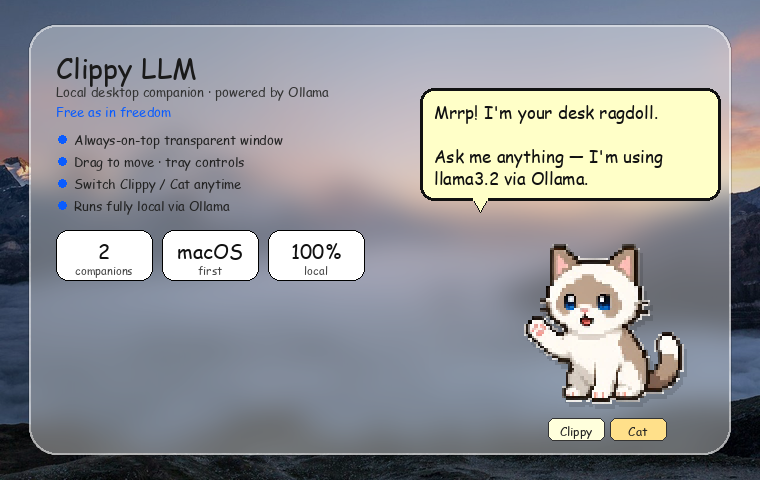
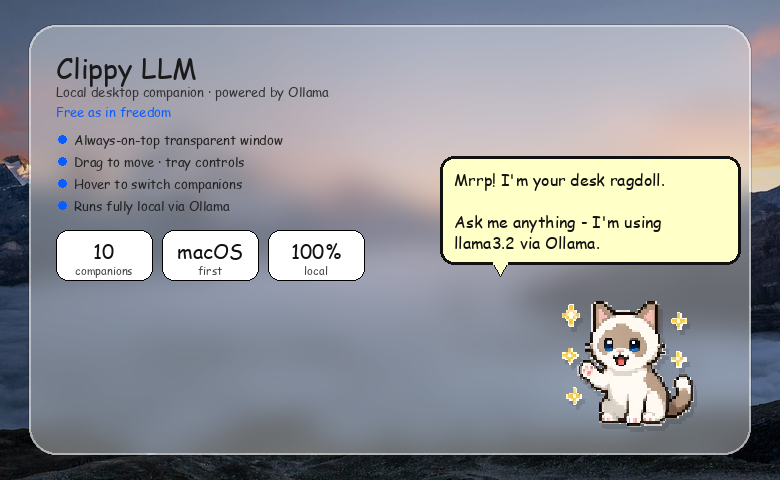
Update Readme Showcase

diff --git a/README.md b/README.md
@@ -1,13 +1,13 @@
 # Clippy LLM
 
 <p align="center">
- <img src="media/demo.gif" alt="Clippy LLM demo - switch between Clippy and Cat companions" width="640" />
+  <img src="media/demo.gif" alt="Clippy LLM demo - switch between classic Office Assistants and Cat" width="640" />
 </p>
 
 <p align="center">
- <strong>A Mac-first desktop companion</strong> that chats with a local LLM via <a href="https://ollama.com">Ollama</a>.<br/>
- Always-on-top, transparent window · drag to move · tray controls · classic Office Assistants + Cat.<br/>
- <em>Free as in freedom</em> - local models, open stack, yours to run and tweak.
+  <strong>A Mac-first desktop companion</strong> that chats with a local LLM via <a href="https://ollama.com">Ollama</a>.<br/>
+  Always-on-top, transparent window · drag to move · tray controls · classic Office Assistants + Cat.<br/>
+  <em>Free as in freedom</em> - local models, open stack, yours to run and tweak.
 </p>
 
 <p align="center">
@@ -21,13 +21,19 @@
 
 ## What it looks like
 
-| Clippy | Cat |
-|:---:|:---:|
-| <img src="media/clippy-chat.png" alt="Clippy chatting with a speech bubble" width="360" /> | <img src="media/cat-chat.png" alt="Ragdoll cat chatting with a speech bubble" width="360" /> |
+| Clippy | Merlin | Cat |
+|:---:|:---:|:---:|
+| <img src="media/clippy-chat.png" alt="Clippy chatting with a speech bubble" width="280" /> | <img src="media/merlin-chat.png" alt="Merlin chatting with a speech bubble" width="280" /> | <img src="media/cat-chat.png" alt="Ragdoll cat chatting with a speech bubble" width="280" /> |
 
 <p align="center">
- <img src="media/companions.png" alt="Clippy and Cat companions side by side" width="720" />
+  <img src="media/companions.png" alt="All ten companions: Clippy, Merlin, Links, Rover, Genius, Genie, Peedy, Rocky, F1, and Cat" width="780" />
 </p>
+
+<p align="center">
+  <img src="media/selector.png" alt="Two-row companion picker under Clippy" width="640" />
+</p>
+
+
 
 ## Stack
 

diff --git a/media/ATTRIBUTION.md b/media/ATTRIBUTION.md
@@ -1,8 +1,8 @@
 # Media attribution
 
 - `wallpaper.jpg` - mountain landscape from [Unsplash](https://unsplash.com)
- (`https://images.unsplash.com/photo-1506905925346-21bda4d32df4`).
- Free to use under the [Unsplash License](https://unsplash.com/license).
-- `clippy-chat.png`, `cat-chat.png`, `companions.png`, `demo.gif` -
- composed for this project using the wallpaper above plus companion sprites
- from `public/agents/`.
+  (`https://images.unsplash.com/photo-1506905925346-21bda4d32df4`).
+  Free to use under the [Unsplash License](https://unsplash.com/license).
+- `clippy-chat.png`, `merlin-chat.png`, `cat-chat.png`, `selector.png`,
+  `companions.png`, `demo.gif` - composed for this project using the wallpaper
+  above plus companion sprites from `public/agents/`.
